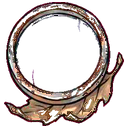
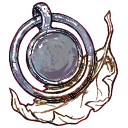
Finish the relics, repair the lens sigil, and re-roll the stall dark
All 38 relic icons are repainted. The set was 0.58 mean luminance with
4.9% ink and a fifth of every icon over 0.80 -- nearly twice as bright
as the art beside it with a sixth of the ink. It is 0.35 and 24.0%
now, which puts it next to the power sigils at 0.35 and 25.2% and near
the bible at 0.30 and 31.4%.

powers/rot_reader.png is repaired. It had installed as a ring with a
hole because its lens was drawn as pale pink glass and the matte read
that as the chroma key. The brief now says any lens is a DARK SOLID
disc, twice, and it came back solid.

iso/shop.png was cream and white stripes, the brightest object on the
isometric floor and a shop rather than a light source. It is
weathered dark wood and sacking with one lantern.

SPRITE_H["shop"] goes 2.15 -> 3.00 with it. The new painting fills 71%
of its canvas where the striped one filled 81%, so the same number
drew the stall at 0.71x the hero -- shorter than the person walking up
to it. It measures 0.99x now.

Five sheets, no stalls, and every one read with a screenshot.

Claude-Session: https://claude.ai/code/session_01MHTEiJ4Rg7aeV3uPFhdWBi

diff --git a/ART_REDO.md b/ART_REDO.md
@@ -15,8 +15,8 @@ regenerated, so a set that has been re-rolled leaves the table on its own. The
 |---|---|---|---|---|
 | `enemies/`  ← **the bible** | 35 | 0.30 | 31.4% | 1.7% |
 | `iso/foe/` | 70 | 0.34 | 27.3% | 3.4% |
-| `powers/` | 30 | 0.35 | 25.2% | 2.8% |
-| `relics/` | 38 | 0.52 | 12.1% | 17.8% |
+| `powers/` | 30 | 0.35 | 25.2% | 2.7% |
+| `relics/` | 38 | 0.35 | 24.0% | 3.1% |
 
 The bible measures **0.30 mean luminance and 31.4% ink**. A set that is far
 from both is not a matter of taste — it is a set drawn to a different brief.
@@ -25,7 +25,7 @@ from both is not a matter of taste — it is a set drawn to a different brief.
 
 Flat vector clip art: one thin uniform stroke, flat fill, saturated primaries.
 They sit on the Powers screen and on the run header, so the player meets them
-every turn. Measured **0.35 / 25.2% ink / 2.8% blown** against the bible's
+every turn. Measured **0.35 / 25.2% ink / 2.7% blown** against the bible's
 **0.30 / 31.4% / 1.7%**.
 
 **Ask for a painted OBJECT, not a symbol** — the thing the power IS, drawn the
@@ -72,7 +72,7 @@ Install: `godot --headless --script tools/install_sheet.gd -- powers <sheet.png>
 ## 2. The 38 relic icons — right brush, wrong value
 
 The technique is correct and the VALUE is wrong by a measured margin:
-**0.52 / 12.1% ink / 17.8% blown**. They are also all lit from the upper left
+**0.35 / 24.0% ink / 3.1% blown**. They are also all lit from the upper left
 with a bright rim, which fights the one-saturated-source rule the rooms are
 built on.
 
